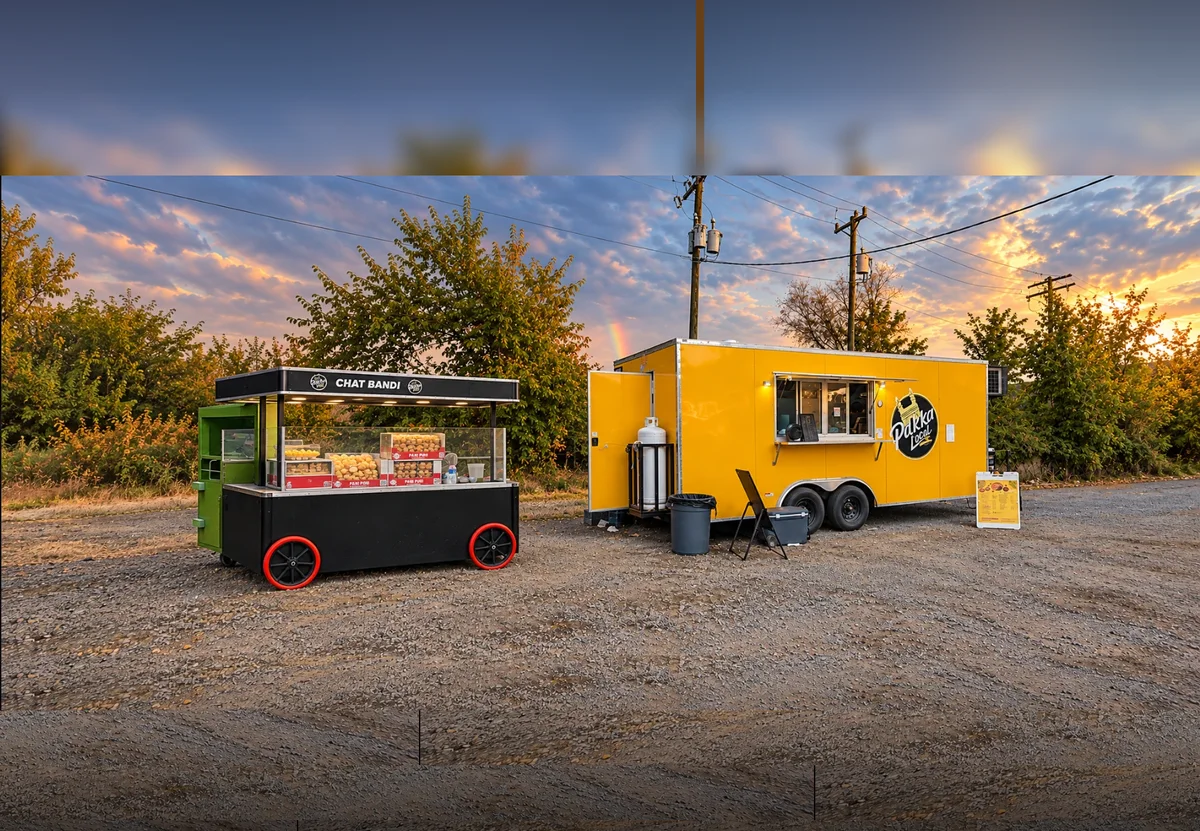
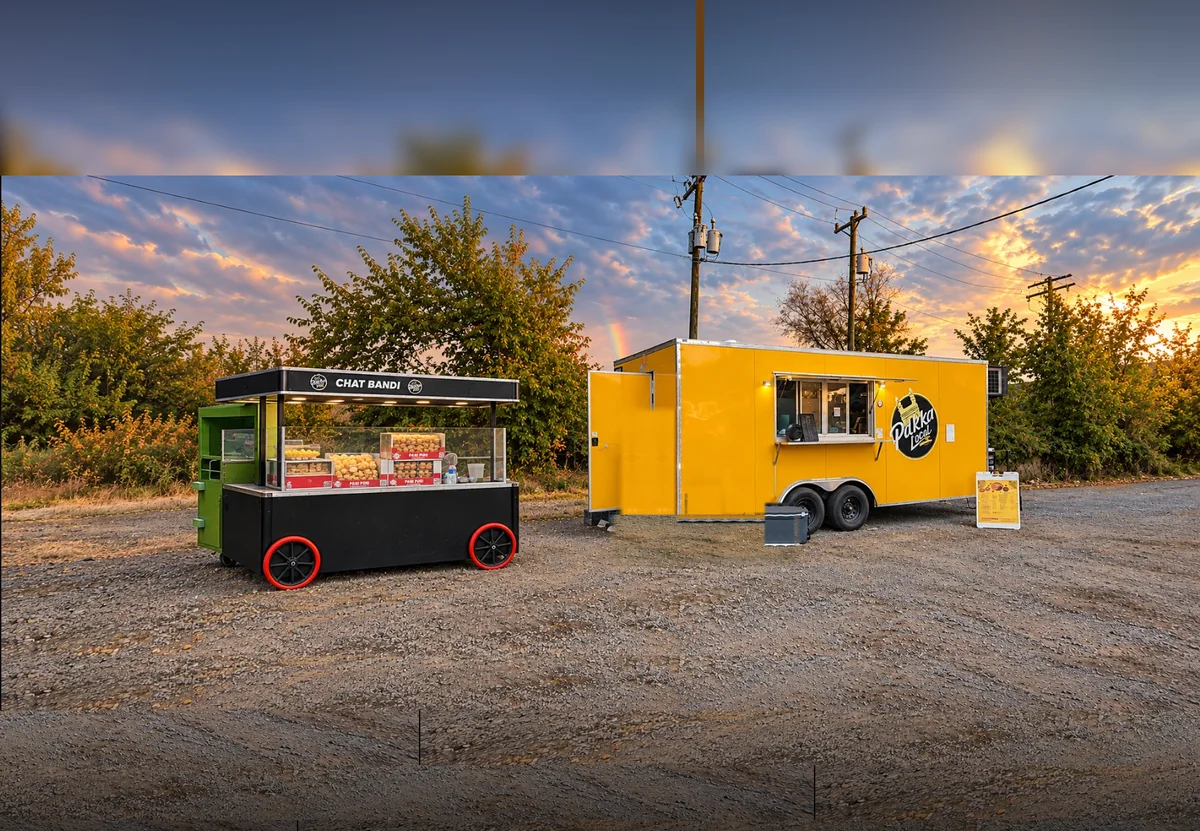
Clear the clutter in front of the truck and give the butterfly a natural flight
scripts/clean-scene.mjs clones truck body, the door seam, the trim and clean gravel over the propane cylinder, trash can and folding chair; the scene build prefers the clean render. The butterfly is now a swallowtail with veined wings that wanders a seeded spline around the board, banks into turns, bobs with each beat and rests on the board with slow wingbeats.

Changed region(s): [[0.4933, 0.4813, 0.6783, 0.6919]]

diff --git a/src/components/Butterfly.jsx b/src/components/Butterfly.jsx
@@ -2,76 +2,189 @@ import { useEffect, useRef } from 'react'
 import { BUTTERFLY } from '../scene.js'
 
 const pct = (n) => `${n}%`
-const WING = 'M17,12.5 C12,2 2.5,0 1.2,5 C0,10.5 6,13.4 17,13.4 Z M17,13.6 C9,14.4 3,19.4 5,23.2 C7,26.4 13,21.4 17,14.6 Z'
+
+// One wing half, drawn for the LEFT side with the body at x = 40. The right wing is mirrored.
+// Swallowtail silhouette: forewing on top, hindwing with a short tail below.
+const FORE = 'M40,17 C36,7 24,0.5 11,3.2 C3.5,5 0.5,11 3,15.5 C6,20 16,22.6 27,22 C32,21.7 36,20.4 40,19.5 Z'
+const HIND = 'M40,20.5 C34,22 26,23.6 18,27 C10,30.5 6,36 9,40.5 C11.5,43.6 16,42 20,39.5 C23,37.6 25.5,35 27.5,32.5 L26,40.5 L31.5,34.5 C35,31.5 38.5,27.5 40,23.5 Z'
 
 function Wing({ side }) {
   return (
     <span className={`bfly-wing bfly-wing-${side}`}>
-      <svg viewBox="0 0 17 26" aria-hidden="true" focusable="false" style={side === 'r' ? { transform: 'scaleX(-1)' } : undefined}>
-        <path d={WING} fill="#ffbe1a" stroke="#141414" strokeWidth="1.3" strokeLinejoin="round" />
-        <path d="M17,13 L6,5.5 M17,13 L8,19.5" stroke="#141414" strokeWidth="0.8" fill="none" opacity="0.8" />
-        <circle cx="5" cy="5.8" r="1.5" fill="#141414" />
-        <circle cx="6.6" cy="21.2" r="1.1" fill="#141414" />
-        <path d="M2,6.5 C2.8,9.6 7,11.6 12,12.3" stroke="#fff3c4" strokeWidth="0.7" fill="none" opacity="0.7" />
+      <svg
+        viewBox="0 0 40 44"
+        aria-hidden="true"
+        focusable="false"
+        style={side === 'r' ? { transform: 'scaleX(-1)' } : undefined}
+      >
+        {/* black ground, yellow panels on top: a swallowtail's dark border and veins */}
+        <path d={FORE} fill="#151515" />
+        <path d={HIND} fill="#151515" />
+        <path
+          d="M39,17.6 C35.5,9.5 25,4 13,6 C7.5,7.2 4.5,11.2 6.2,14.6 C8.5,18.4 17,20.3 26.5,19.8 C31,19.6 35,18.6 39,18 Z"
+          fill="#ffbe1a"
+        />
+        <path
+          d="M39,21.2 C34,22.6 27,24.2 19.5,27.4 C13.5,30.2 10.5,34.4 12.6,37.6 C14.4,39.8 17.4,38.8 20.4,36.8 C23.6,34.6 26.4,31.6 28.6,29 C32.4,27.4 36.2,25 39,23 Z"
+          fill="#f6a81c"
+        />
+        {/* veins */}
+        <g stroke="#151515" strokeWidth="0.9" fill="none" strokeLinecap="round" opacity="0.9">
+          <path d="M39,18 C31,16.5 22,13 13,7.5" />
+          <path d="M39,18.4 C30,17.8 21,16.4 10,13" />
+          <path d="M39,18.8 C31,19.2 22,19.4 11,17.6" />
+          <path d="M39,22 C32,24 24,27 15,33" />
+          <path d="M39,22.8 C33,26.4 27,30.6 22,37" />
+        </g>
+        {/* pale spots along the dark border */}
+        <g fill="#fff3c9" opacity="0.92">
+          <circle cx="8.6" cy="7.2" r="1.1" />
+          <circle cx="4.6" cy="12.4" r="1" />
+          <circle cx="7.4" cy="18.2" r="0.9" />
+          <circle cx="11.2" cy="33.2" r="0.9" />
+          <circle cx="16.6" cy="39.6" r="0.8" />
+          <circle cx="22.4" cy="36.2" r="0.7" />
+        </g>
+        {/* blue eyespot on the hindwing, as on a tiger swallowtail */}
+        <circle cx="25.8" cy="33.4" r="1.6" fill="#4f8fd6" opacity="0.85" />
       </svg>
     </span>
   )
 }
 
+/* Deterministic wander: a smooth closed spline through pseudo-random waypoints around the
+   board, so the flight looks like a butterfly's drift rather than a geometric loop. */
+function seeded(seed) {
+  let s = seed >>> 0
+  return () => {
+    s = (s * 1664525 + 1013904223) >>> 0
+    return s / 4294967296
+  }
+}
+function catmull(points, samples) {
+  const n = points.length
+  const out = []
+  for (let i = 0; i < n; i++) {
+    const p0 = points[(i - 1 + n) % n]
+    const p1 = points[i]
+    const p2 = points[(i + 1) % n]
+    const p3 = points[(i + 2) % n]
+    for (let k = 0; k < samples; k++) {
+      const t = k / samples
+      const t2 = t * t
+      const t3 = t2 * t
+      out.push({
+        x: 0.5 * (2 * p1.x + (-p0.x + p2.x) * t + (2 * p0.x - 5 * p1.x + 4 * p2.x - p3.x) * t2 + (-p0.x + 3 * p1.x - 3 * p2.x + p3.x) * t3),
+        y: 0.5 * (2 * p1.y + (-p0.y + p2.y) * t + (2 * p0.y - 5 * p1.y + 4 * p2.y - p3.y) * t2 + (-p0.y + 3 * p1.y - 3 * p2.y + p3.y) * t3),
+      })
+    }
+  }
+  return out
+}
+
 /**
- * A yellow-and-black butterfly that loops a slow figure-eight around the menu board,
- * pausing on the board's top edge, with a tiny "click here for the full menu" bubble.
- * Butterfly and bubble open the menu on click; the board hotspot stays the keyboard
- * control, so this is aria-hidden. One WAAPI animation drives the path; the wings flap with
- * CSS (rotateY). Under reduced motion it sits still on the board's top edge.
+ * A yellow swallowtail that drifts around the menu board on a wandering path, banks into its
+ * turns, bobs with each wingbeat, and settles on the board's top edge now and then with slow,
+ * open-and-close wingbeats. The bubble ("click here for the full menu") rides with it but is
+ * never rotated. Butterfly and bubble open the menu; the board hotspot remains the keyboard
+ * control, so this is aria-hidden. Under reduced motion it perches still.
  */
 export default function Butterfly({ board, text, onOpen, reduce }) {
   const anchorRef = useRef(null)
   const flyRef = useRef(null)
+  const bodyRef = useRef(null)
 
   useEffect(() => {
     const anchor = anchorRef.current
     const fly = flyRef.current
+    const bug = bodyRef.current
     const layer = anchor.parentElement
-    let anim = null
+    let pathAnim = null
+    let bankAnim = null
+    let poll = 0
+
     const build = () => {
-      anim?.cancel()
+      pathAnim?.cancel()
+      bankAnim?.cancel()
+      window.clearInterval(poll)
       const W = layer.clientWidth
       const H = layer.clientHeight
       const bw = (board.width / 100) * W
       const bh = (board.height / 100) * H
-      const size = fly.firstElementChild?.offsetHeight || 26
-      const perch = { x: 0, y: -bh / 2 - size / 2 + 3 }
-      const at = (p) => ({ transform: `translate3d(${p.x.toFixed(1)}px, ${p.y.toFixed(1)}px, 0)` })
+      const size = bug.offsetHeight || 32
+      const perch = { x: bw * 0.08, y: -bh / 2 - size * 0.42 }
+      const at = (p) => `translate3d(${p.x.toFixed(1)}px, ${p.y.toFixed(1)}px, 0)`
+
       if (reduce) {
-        fly.style.transform = at(perch).transform
+        fly.style.transform = at(perch)
+        bug.dataset.perched = '1'
         return
       }
       fly.style.transform = ''
+
+      // Waypoints: 7 stops around the board at varied distances and heights.
+      const rnd = seeded(BUTTERFLY.seed)
       const R = BUTTERFLY.radius * bw
-      const total = (BUTTERFLY.loopS + BUTTERFLY.perchS + 1.2) * 1000
-      const perchEnd = (BUTTERFLY.perchS * 1000) / total
-      const loopStart = perchEnd + 600 / total
-      const loopEnd = 1 - 600 / total
-      const frames = [
-        { ...at(perch), offset: 0 },
-        { ...at(perch), offset: perchEnd },
-      ]
-      const N = 36
-      for (let i = 0; i <= N; i++) {
-        const t = (i / N) * Math.PI * 2
-        const p = { x: R * Math.sin(t), y: -bh * 0.2 + R * 0.55 * Math.sin(2 * t) }
-        frames.push({ ...at(p), offset: loopStart + (loopEnd - loopStart) * (i / N) })
+      const pts = []
+      const K = 7
+      for (let i = 0; i < K; i++) {
+        const a = (i / K) * Math.PI * 2 + (rnd() - 0.5) * 0.6
+        const r = R * (0.55 + rnd() * 0.9)
+        pts.push({ x: Math.cos(a) * r, y: -bh * 0.35 + Math.sin(a) * r * 0.55 - rnd() * bh * 0.6 })
       }
-      frames.push({ ...at(perch), offset: 1 })
-      anim = fly.animate(frames, { duration: total, iterations: Infinity, easing: 'linear' })
+      const spline = catmull(pts, 22)
+      const N = spline.length
+
+      const flyMs = BUTTERFLY.loopS * 1000
+      const perchMs = BUTTERFLY.perchS * 1000
+      const landMs = 900
+      const total = perchMs + landMs + flyMs + landMs
+      const t0 = perchMs / total
+      const t1 = (perchMs + landMs) / total
+      const t2 = (perchMs + landMs + flyMs) / total
+
+      // Path frames: perch, take off to the spline start, wander, glide back, perch.
+      const frames = [
+        { transform: at(perch), offset: 0 },
+        { transform: at(perch), offset: t0, easing: 'cubic-bezier(.3,0,.2,1)' },
+      ]
+      const banks = [
+        { transform: 'rotate(0deg) scale(1)', offset: 0 },
+        { transform: 'rotate(0deg) scale(1)', offset: t0 },
+      ]
+      for (let i = 0; i <= N; i++) {
+        const p = spline[i % N]
+        const q = spline[(i + 1) % N]
+        const u = i / N
+        // wingbeat bob and a little depth: higher in the frame reads as farther away
+        const bob = Math.sin(u * flyMs * 0.0065) * 1.6
+        const depth = 1 - Math.min(0.16, Math.max(0, (-p.y - bh * 0.4) / (R * 2.2)))
+        const bank = Math.max(-22, Math.min(22, (q.x - p.x) * 2.2))
+        const off = t1 + (t2 - t1) * u
+        frames.push({ transform: at({ x: p.x, y: p.y + bob }), offset: off })
+        banks.push({ transform: `rotate(${bank.toFixed(1)}deg) scale(${depth.toFixed(3)})`, offset: off })
+      }
+      frames.push({ transform: at(perch), offset: 1, easing: 'cubic-bezier(.4,0,.6,1)' })
+      banks.push({ transform: 'rotate(0deg) scale(1)', offset: 1 })
+
+      pathAnim = fly.animate(frames, { duration: total, iterations: Infinity, easing: 'linear' })
+      bankAnim = bug.animate(banks, { duration: total, iterations: Infinity, easing: 'linear' })
+
+      // Slow wingbeats while perched, fast ones in flight.
+      poll = window.setInterval(() => {
+        const t = (pathAnim.currentTime || 0) % total
+        const perched = t < perchMs * 0.9 || t > total - landMs * 0.35
+        if (bug.dataset.perched !== (perched ? '1' : '')) bug.dataset.perched = perched ? '1' : ''
+      }, 120)
     }
     build()
     const ro = new ResizeObserver(build)
     ro.observe(layer)
     return () => {
       ro.disconnect()
-      anim?.cancel()
+      pathAnim?.cancel()
+      bankAnim?.cancel()
+      window.clearInterval(poll)
     }
   }, [board, reduce])
 
@@ -83,7 +196,7 @@ export default function Butterfly({ board, text, onOpen, reduce }) {
       aria-hidden="true"
     >
       <span ref={flyRef} className="bfly-fly">
-        <span className="bfly" onClick={onOpen}>
+        <span ref={bodyRef} className="bfly" onClick={onOpen}>
           <Wing side="l" />
           <Wing side="r" />
           <span className="bfly-body" />

diff --git a/src/index.css b/src/index.css
@@ -560,14 +560,16 @@ body {
 
 .bfly {
   position: absolute;
-  left: -17px;
-  top: -13px;
-  width: 34px;
-  height: 26px;
-  perspective: 90px;
+  left: -22px;
+  top: -18px;
+  width: 44px;
+  height: 36px;
+  perspective: 120px;
+  transform-origin: 50% 55%;
   cursor: pointer;
   pointer-events: auto;
-  filter: drop-shadow(0 2px 2px rgb(0 0 0 / 0.35));
+  filter: drop-shadow(0 3px 3px rgb(0 0 0 / 0.35));
+  will-change: transform;
 }
 
 .bfly-wing {
@@ -575,7 +577,7 @@ body {
   top: 0;
   width: 50%;
   height: 100%;
-  animation: wing-l 0.083s ease-in-out infinite alternate;
+  animation: wing-l 0.15s cubic-bezier(0.45, 0, 0.55, 1) infinite alternate;
 }
 
 .bfly-wing svg {
@@ -595,53 +597,82 @@ body {
   animation-name: wing-r;
 }
 
+/* In flight the wings sweep from almost flat to nearly closed; perched they open and close slowly. */
 @keyframes wing-l {
   from {
-    transform: rotateY(0deg);
+    transform: rotateY(-12deg);
   }
   to {
-    transform: rotateY(68deg);
+    transform: rotateY(74deg);
   }
 }
 
 @keyframes wing-r {
   from {
-    transform: rotateY(0deg);
+    transform: rotateY(12deg);
   }
   to {
-    transform: rotateY(-68deg);
+    transform: rotateY(-74deg);
+  }
+}
+
+.bfly[data-perched="1"] .bfly-wing {
+  animation-duration: 1.3s;
+  animation-name: perch-l;
+}
+
+.bfly[data-perched="1"] .bfly-wing-r {
+  animation-name: perch-r;
+}
+
+@keyframes perch-l {
+  from {
+    transform: rotateY(18deg);
+  }
+  to {
+    transform: rotateY(62deg);
+  }
+}
+
+@keyframes perch-r {
+  from {
+    transform: rotateY(-18deg);
+  }
+  to {
+    transform: rotateY(-62deg);
   }
 }
 
 .bfly-body {
   position: absolute;
   left: 50%;
-  top: 22%;
-  width: 3px;
-  height: 58%;
-  margin-left: -1.5px;
+  top: 30%;
+  width: 3.5px;
+  height: 52%;
+  margin-left: -1.75px;
   border-radius: 2px;
-  background: var(--ink);
+  background: linear-gradient(#2a2a2a, #111);
 }
 
 .bfly-body::before,
 .bfly-body::after {
   content: "";
   position: absolute;
-  top: -5px;
+  top: -7px;
   width: 1px;
-  height: 6px;
-  background: var(--ink);
+  height: 8px;
+  border-radius: 1px;
+  background: #111;
 }
 
 .bfly-body::before {
   left: -1px;
-  transform: rotate(-25deg);
+  transform: rotate(-28deg);
 }
 
 .bfly-body::after {
   right: -1px;
-  transform: rotate(25deg);
+  transform: rotate(28deg);
 }
 
 .bfly-bubble {
@@ -662,10 +693,10 @@ body {
 }
 
 .stage[data-fx="lite"] .bfly {
-  left: -13px;
-  top: -10px;
-  width: 26px;
-  height: 20px;
+  left: -16px;
+  top: -13px;
+  width: 32px;
+  height: 26px;
 }
 
 .stage[data-fx="lite"] .bfly-bubble {

diff --git a/src/scene.js b/src/scene.js
@@ -47,7 +47,7 @@ export const BUBBLES = {
 
 // The butterfly that roams around the menu board: figure-eight radius in board widths,
 // loop time and the pause on the board's top edge (seconds).
-export const BUTTERFLY = { radius: 1.5, loopS: 14, perchS: 2 }
+export const BUTTERFLY = { radius: 1.5, loopS: 16, perchS: 3.5, seed: 20261023 }
 
 // Where the vendor stands: the inside of the serving window. He is clipped to this rect.
 export const WINDOW_INTERIOR = { left: 65.8, top: 45.7, width: 6.7, height: 6.6 }
